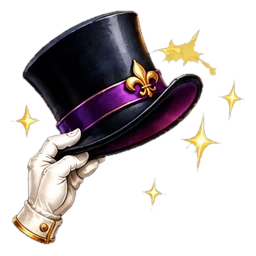
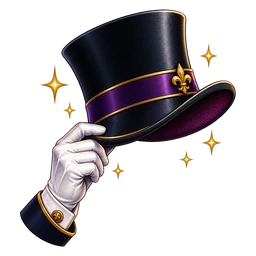
Sombrero del saludo: nueva ilustración con destellos dorados
Claude-Session: https://claude.ai/code/session_01BSRWCop9etXSSJ7o4GBwpZ

diff --git a/index.html b/index.html
@@ -49,21 +49,21 @@
 <!-- Tipografía: Playfair Display para el "display" institucional (nombre de la
      app / títulos), Inter para toda la interfaz funcional. Alojadas en la propia app
      (styles/fonts.css, assets/fonts/): funcionan sin conexión y no dependen de Google. -->
-<link rel="stylesheet" href="styles/fonts.css?v=389">
+<link rel="stylesheet" href="styles/fonts.css?v=390">
 <link rel="preload" href="assets/fonts/inter-latin.woff" as="font" type="font/woff" crossorigin>
-<link rel="stylesheet" href="styles/main.css?v=389">
+<link rel="stylesheet" href="styles/main.css?v=390">
 <!-- v1.4: estilos de la capa online (cuenta, migración, ranking). Solo clases .seq-* -->
-<link rel="stylesheet" href="styles/online.css?v=389">
-<link rel="stylesheet" href="styles/results-frame.css?v=389">
-<link rel="stylesheet" href="styles/visual-2-3.css?v=389">
-<link rel="stylesheet" href="styles/light-refresh.css?v=389">
-<link rel="stylesheet" href="styles/encargos.css?v=389">
-<link rel="stylesheet" href="styles/encargos-intro.css?v=389">
-<link rel="stylesheet" href="styles/duel-intro.css?v=389">
-<link rel="stylesheet" href="styles/sir-events.css?v=389">
-<link rel="stylesheet" href="styles/reward-toast.css?v=389">
-<link rel="stylesheet" href="styles/theme.css?v=389">
-<link rel="stylesheet" href="styles/privacy.css?v=389">
+<link rel="stylesheet" href="styles/online.css?v=390">
+<link rel="stylesheet" href="styles/results-frame.css?v=390">
+<link rel="stylesheet" href="styles/visual-2-3.css?v=390">
+<link rel="stylesheet" href="styles/light-refresh.css?v=390">
+<link rel="stylesheet" href="styles/encargos.css?v=390">
+<link rel="stylesheet" href="styles/encargos-intro.css?v=390">
+<link rel="stylesheet" href="styles/duel-intro.css?v=390">
+<link rel="stylesheet" href="styles/sir-events.css?v=390">
+<link rel="stylesheet" href="styles/reward-toast.css?v=390">
+<link rel="stylesheet" href="styles/theme.css?v=390">
+<link rel="stylesheet" href="styles/privacy.css?v=390">
 
 </head>
 <body class="on-home">
@@ -1151,56 +1151,56 @@ try {
 <!-- Fase 2: datos y constantes extraidos a modulos, cargados como scripts
      clasicos (no ES Modules) para conservar el scope global compartido con
      el script principal, sin convertir todavia la app a ES Modules. -->
-<script src="src/data/ui-maps.js?v=389"></script>
-<script src="src/data/questions.js?v=389"></script>
-<script src="src/data/questions-retired.js?v=389"></script>
-<script src="src/data/phrases.js?v=389"></script>
-<script src="src/data/duel-phrases.js?v=389"></script>
-<script src="src/data/lucidez.js?v=389"></script>
-<script src="src/data/medals.js?v=389"></script>
+<script src="src/data/ui-maps.js?v=390"></script>
+<script src="src/data/questions.js?v=390"></script>
+<script src="src/data/questions-retired.js?v=390"></script>
+<script src="src/data/phrases.js?v=390"></script>
+<script src="src/data/duel-phrases.js?v=390"></script>
+<script src="src/data/lucidez.js?v=390"></script>
+<script src="src/data/medals.js?v=390"></script>
 <!-- Prompt 3 — Fase C: sistema de avatares compartido (window.SEQAvatars). Debe
      cargarse antes de src/online/online.js y src/online/duels.js: ambos lo
      consumen en vez de mantener cada uno su propia copia de la lista. -->
-<script src="src/data/avatars.js?v=389"></script>
-<script src="src/share/share-card.js?v=389"></script>
+<script src="src/data/avatars.js?v=390"></script>
+<script src="src/share/share-card.js?v=390"></script>
 
 <!-- Fase 3 (Lote 3A): motor de coincidencia de respuestas extraido a
      src/utils/matching.js, mismo criterio que la Fase 2 (script clasico,
      sin ES Modules todavia). -->
-<script src="src/utils/matching.js?v=389"></script>
-<script src="src/utils/answer-alias.js?v=389"></script>
-<script src="src/utils/lucidez-select.js?v=389"></script>
-<script src="src/state/lucidez-bag.js?v=389"></script>
-<script src="src/state/timetrial-bag.js?v=389"></script>
-<script src="src/utils/encargos-core.js?v=389"></script>
-<script src="src/utils/encargos-progress.js?v=389"></script>
-<script src="src/state/encargos.js?v=389"></script>
-<script src="src/data/encargos-phrases.js?v=389"></script>
-<script src="src/ui/encargos-ui.js?v=389"></script>
-<script src="src/data/named-phrases.js?v=389"></script>
-<script src="src/utils/named-phrases.js?v=389"></script>
-<script src="src/utils/encargos-intro-core.js?v=389"></script>
-<script src="src/data/encargos-intro-phrases.js?v=389"></script>
-<script src="src/ui/encargos-intro.js?v=389"></script>
-<script src="src/ui/duel-intro.js?v=389"></script>
-<script src="src/data/home-quotes.js?v=389"></script>
-<script src="src/ui/home-quote.js?v=389"></script>
-<script src="src/utils/sir-events.js?v=389"></script>
-<script src="src/ui/sir-events-ui.js?v=389"></script>
-<script src="src/state/sir-events.js?v=389"></script>
-<script src="src/utils/sudden-progression.js?v=389"></script>
-<script src="src/utils/mental-calc.js?v=389"></script>
-<script src="src/utils/mental-classic.js?v=389"></script>
-<script src="src/ui/mental-classic-ui.js?v=389"></script>
-<script src="src/ui/mental-menu.js?v=389"></script>
-<script src="src/ui/level-up.js?v=389"></script>
+<script src="src/utils/matching.js?v=390"></script>
+<script src="src/utils/answer-alias.js?v=390"></script>
+<script src="src/utils/lucidez-select.js?v=390"></script>
+<script src="src/state/lucidez-bag.js?v=390"></script>
+<script src="src/state/timetrial-bag.js?v=390"></script>
+<script src="src/utils/encargos-core.js?v=390"></script>
+<script src="src/utils/encargos-progress.js?v=390"></script>
+<script src="src/state/encargos.js?v=390"></script>
+<script src="src/data/encargos-phrases.js?v=390"></script>
+<script src="src/ui/encargos-ui.js?v=390"></script>
+<script src="src/data/named-phrases.js?v=390"></script>
+<script src="src/utils/named-phrases.js?v=390"></script>
+<script src="src/utils/encargos-intro-core.js?v=390"></script>
+<script src="src/data/encargos-intro-phrases.js?v=390"></script>
+<script src="src/ui/encargos-intro.js?v=390"></script>
+<script src="src/ui/duel-intro.js?v=390"></script>
+<script src="src/data/home-quotes.js?v=390"></script>
+<script src="src/ui/home-quote.js?v=390"></script>
+<script src="src/utils/sir-events.js?v=390"></script>
+<script src="src/ui/sir-events-ui.js?v=390"></script>
+<script src="src/state/sir-events.js?v=390"></script>
+<script src="src/utils/sudden-progression.js?v=390"></script>
+<script src="src/utils/mental-calc.js?v=390"></script>
+<script src="src/utils/mental-classic.js?v=390"></script>
+<script src="src/ui/mental-classic-ui.js?v=390"></script>
+<script src="src/ui/mental-menu.js?v=390"></script>
+<script src="src/ui/level-up.js?v=390"></script>
 
 <!-- Fase 3 (Lote 3B): nucleo algoritmico de Duelo extraido a
      src/utils/duel.js, mismo criterio que el resto (script clasico, sin
      ES Modules todavia). Las dependencias compartidas con otros modos
      (arrangeStandardBlock, generateLucidezMentalOp)
      permanecen en este script principal, sin moverse en este lote. -->
-<script src="src/utils/duel.js?v=389"></script>
+<script src="src/utils/duel.js?v=390"></script>
 
 <!-- Fase 3 (Lote 3C): defaults, migracion y saneamiento del Store
      extraidos a src/utils/store.js, mismo criterio que el resto (script
@@ -1212,60 +1212,60 @@ try {
      getLevelData) y las 8 funciones de persistencia real (loadStore,
      saveStore, exportProgress...) permanecen en este script principal,
      sin moverse en este lote. -->
-<script src="src/utils/store.js?v=389"></script>
+<script src="src/utils/store.js?v=390"></script>
 
 <!-- Fase 4B: fachada de estado de solo lectura (getStore/getCurrentGame),
      mismo criterio que el resto (script clasico, sin ES Modules todavia).
      No copia, no transforma, no cachea. Ver src/state/read-facade.js. -->
-<script src="src/state/read-facade.js?v=389"></script>
+<script src="src/state/read-facade.js?v=390"></script>
 
-<script src="src/utils/streak-xp.js?v=389"></script>
+<script src="src/utils/streak-xp.js?v=390"></script>
 <!-- Fase 4C: helpers minimos de escritura (pushCapped, resetStreak) para
      eliminar 2 duplicaciones reales concretas -- no un sistema de
      mutaciones. Ver src/state/write-helpers.js y CHANGELOG_FASE4C.md. -->
-<script src="src/state/write-helpers.js?v=389"></script>
+<script src="src/state/write-helpers.js?v=390"></script>
 
 <!-- v1.4: capa online (cuenta Google, sincronización, migración, ranking).
      config.js es PÚBLICO (URL del Worker + Client ID de Google); si está
      vacío, la capa online queda desactivada y la app es idéntica a la v1.3.
      online.js solo usa el store/funciones del juego en tiempo de ejecución. -->
-<script src="src/ui/install-app.js?v=389"></script>
-<script src="src/share/invite.js?v=389"></script>
-<script src="src/ui/reward-toast.js?v=389"></script>
-<script src="src/ui/privacy.js?v=389"></script>
-<script src="src/ui/a11y.js?v=389"></script>
-<script src="src/ui/back-nav.js?v=389"></script>
-<script src="src/ui/game-fx.js?v=389"></script>
-<script src="src/ui/last-life.js?v=389"></script>
-<script src="src/ui/hitos.js?v=389"></script>
-<script src="src/ui/achievements.js?v=389"></script>
-<script src="src/ui/stats-extra.js?v=389"></script>
-<script src="src/ui/name-prompt.js?v=389"></script>
-<script src="src/ui/intro.js?v=389"></script>
-<script src="src/ui/mode-badges.js?v=389"></script>
-<script src="src/ui/lucidez-ui.js?v=389"></script>
-<script src="src/ui/sabias.js?v=389"></script>
-<script src="src/ui/icons.js?v=389"></script>
-<script src="src/online/config.js?v=389"></script>
+<script src="src/ui/install-app.js?v=390"></script>
+<script src="src/share/invite.js?v=390"></script>
+<script src="src/ui/reward-toast.js?v=390"></script>
+<script src="src/ui/privacy.js?v=390"></script>
+<script src="src/ui/a11y.js?v=390"></script>
+<script src="src/ui/back-nav.js?v=390"></script>
+<script src="src/ui/game-fx.js?v=390"></script>
+<script src="src/ui/last-life.js?v=390"></script>
+<script src="src/ui/hitos.js?v=390"></script>
+<script src="src/ui/achievements.js?v=390"></script>
+<script src="src/ui/stats-extra.js?v=390"></script>
+<script src="src/ui/name-prompt.js?v=390"></script>
+<script src="src/ui/intro.js?v=390"></script>
+<script src="src/ui/mode-badges.js?v=390"></script>
+<script src="src/ui/lucidez-ui.js?v=390"></script>
+<script src="src/ui/sabias.js?v=390"></script>
+<script src="src/ui/icons.js?v=390"></script>
+<script src="src/online/config.js?v=390"></script>
 <!-- v2.0: combinación de datos de jugador (mismo código que el servidor) y su sincronización -->
-<script src="src/utils/sync-merge.js?v=389"></script>
-<script src="src/online/data-sync.js?v=389"></script>
-<script src="src/online/online.js?v=389"></script>
+<script src="src/utils/sync-merge.js?v=390"></script>
+<script src="src/online/data-sync.js?v=390"></script>
+<script src="src/online/online.js?v=390"></script>
 <!-- v1.5: Amigos, Duelo online y Retos. El servidor decide preguntas, tiempo, aciertos y ganador. -->
-<script src="src/state/result-heard.js?v=389"></script>
-<script src="src/state/multi-result.js?v=389"></script>
-<script src="src/online/reto-fx.js?v=389"></script>
-<script src="src/online/duels.js?v=389"></script>
+<script src="src/state/result-heard.js?v=390"></script>
+<script src="src/state/multi-result.js?v=390"></script>
+<script src="src/online/reto-fx.js?v=390"></script>
+<script src="src/online/duels.js?v=390"></script>
 <!-- 2.1: Duelo por apuestas, ELO PvP, Rankings y estadísticas de Duelos (solo presentación; decide el servidor) -->
-<script src="src/online/duels-v21.js?v=389"></script>
-<script src="src/online/multi-duels.js?v=389"></script>
-<script src="src/online/multi-stakes.js?v=389"></script>
+<script src="src/online/duels-v21.js?v=390"></script>
+<script src="src/online/multi-duels.js?v=390"></script>
+<script src="src/online/multi-stakes.js?v=390"></script>
 <!-- 2.3: ficha pública de un jugador (resumen, récords, PvP y solicitud de amistad) -->
-<script src="src/online/player-profile.js?v=389"></script>
-<script src="src/online/inbox.js?v=389"></script>
-<script src="src/online/push.js?v=389"></script>
+<script src="src/online/player-profile.js?v=390"></script>
+<script src="src/online/inbox.js?v=390"></script>
+<script src="src/online/push.js?v=390"></script>
 <!-- Audio: sonidos del juego (src/audio/audio.js) -->
-<script src="src/audio/audio.js?v=389"></script>
+<script src="src/audio/audio.js?v=390"></script>
 
 <script>
 function closeWelcomeModal() {
@@ -7293,6 +7293,6 @@ window.addEventListener('appinstalled', () => {
   hidePwaHint();
 });
 </script>
-<script src="src/ui/resume-clock.js?v=389"></script>
+<script src="src/ui/resume-clock.js?v=390"></script>
 </body>
 </html>

diff --git a/sw.js b/sw.js
@@ -38,7 +38,7 @@
 // styles/main.css, src/data/medals.js, src/utils/store.js y src/online/duels.js (ya en el shell).
 // 2.0 (Prompt 5, tarjeta de compartir): subido de 10 a 11; nuevo src/share/share-card.js
 // (añadido al shell) y cambiaron index.html y src/online/duels.js.
-const CACHE_VERSION = 389;
+const CACHE_VERSION = 390;
 // Dos cachés (ver install/fetch más abajo):
 //  · CACHE_NAME  (versionada): index.html, CSS, JS, manifest e iconos. Es poco y es imprescindible: si no se puede guardar, la
 //    versión nueva no se instala y se queda la anterior.
@@ -760,7 +760,7 @@ const ASSET_REVS = {
   './assets/ui/sombrero-aplastado.webp': 'bd1a6ce9',
   './assets/ui/sombrero-laurel.webp': '12dbb7f8',
   './assets/ui/sombrero-mediocre.webp': '02513cbd',
-  './assets/ui/sombrero-saludo.webp': 'b56f688a',
+  './assets/ui/sombrero-saludo.webp': '7d193989',
   './assets/ui/suspenso.webp': '582fd4c7',
   './assets/ui/tarjeta/sello-record.webp': '5e2ca086',
   './assets/ui/tiempo.webp': '47ba95ec',
